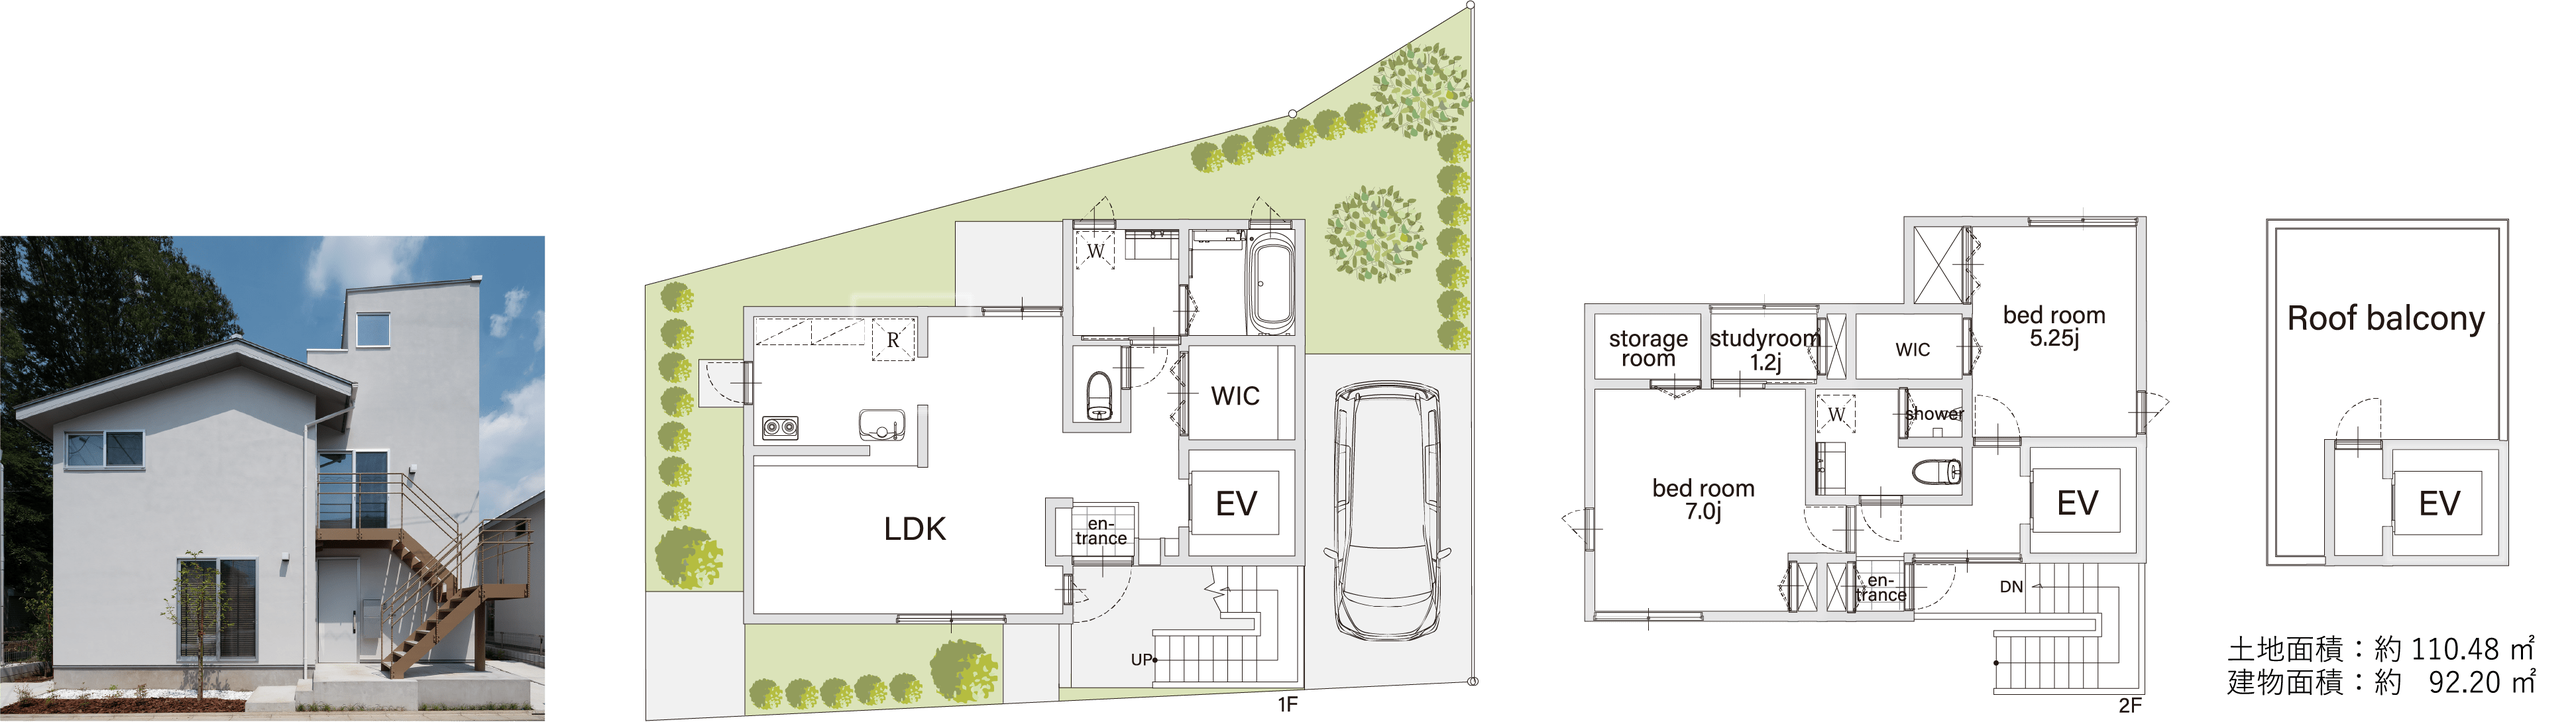
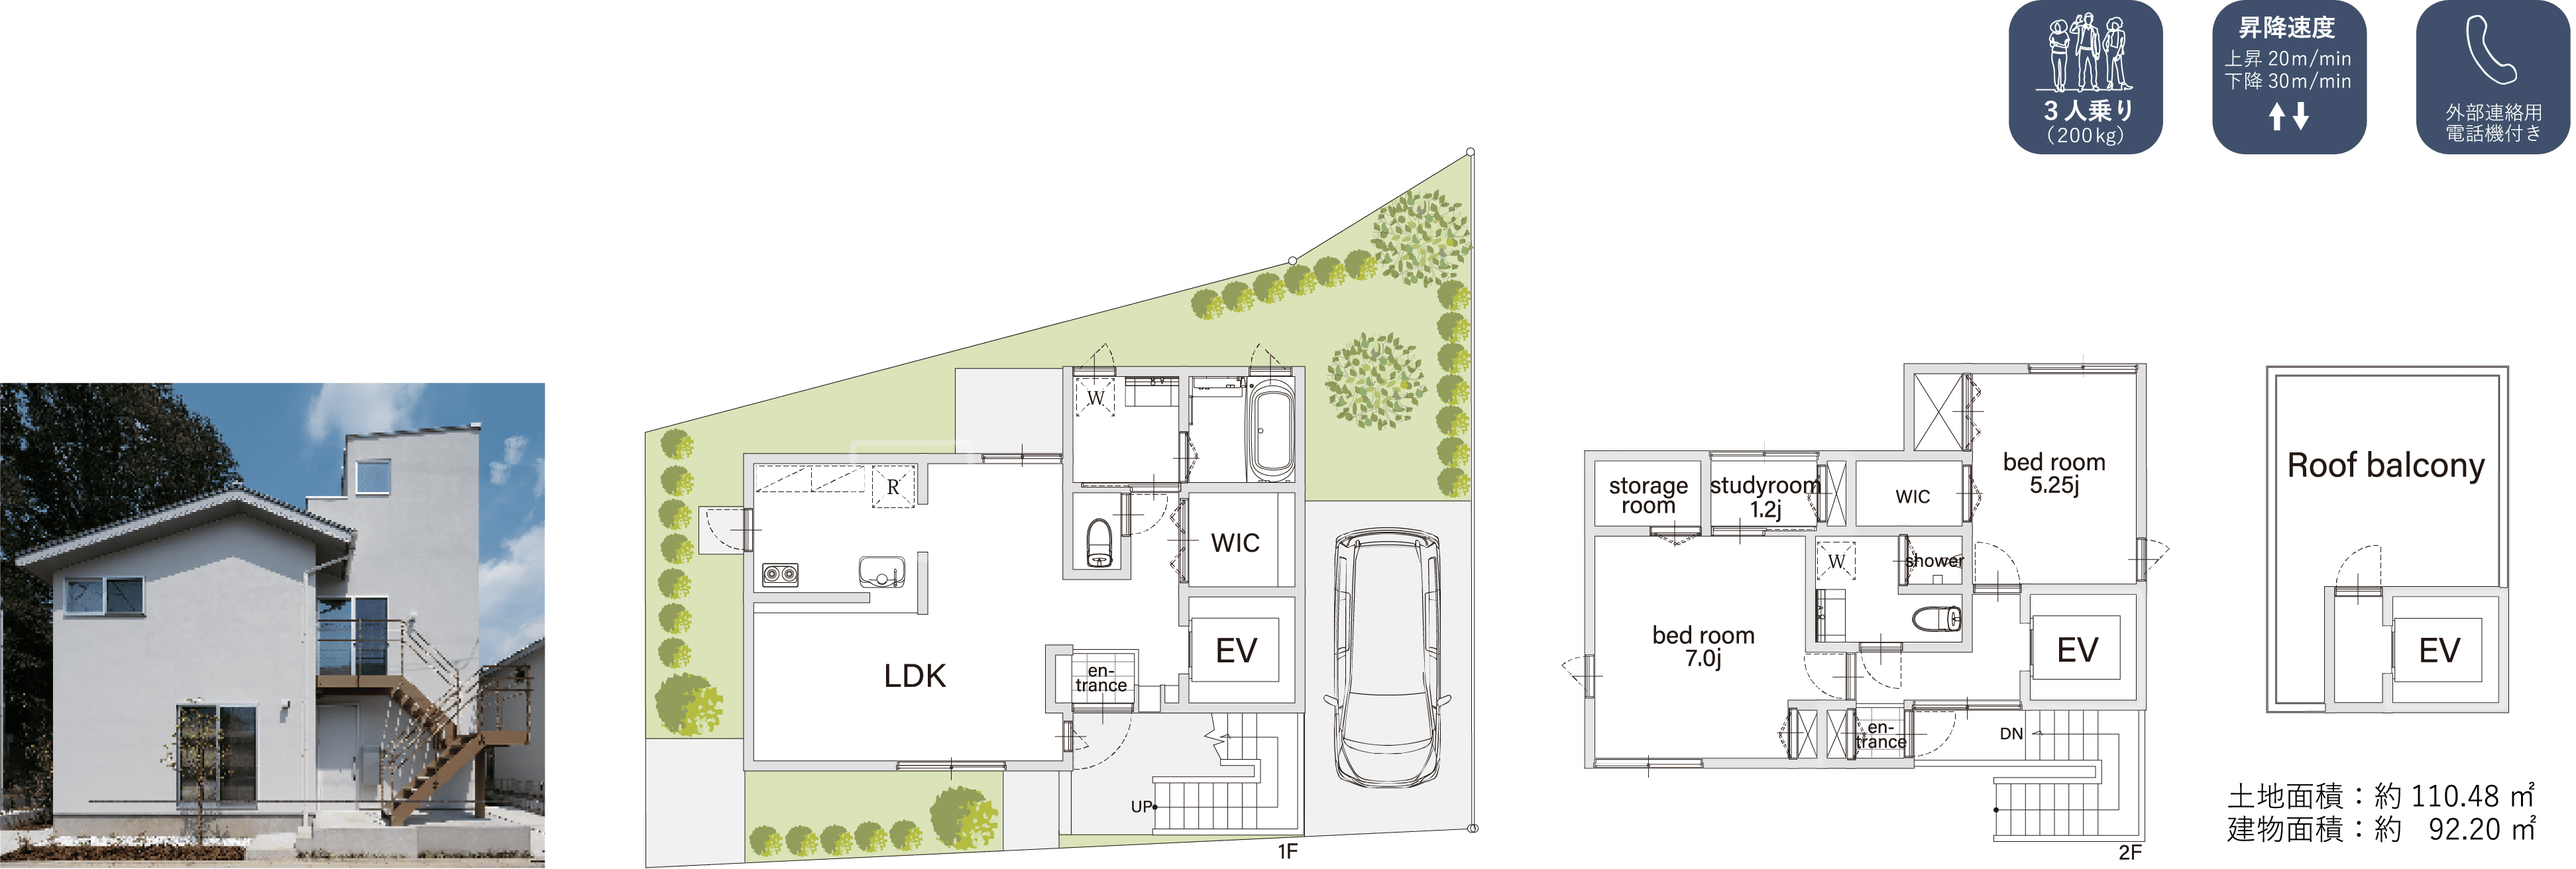
B号棟間取追加

diff --git a/index.html b/index.html
@@ -144,7 +144,7 @@
             <img src="images/SVG/logo_text.svg" alt="Makefull">
         </div>
         <!-- お問い合せ -->
-        <div class="c-contents w1100 w80s mgb10 mgb20s">
+        <div class="c-contents w1100 w80s mgb10 mgb30s">
             <ul class="c-flex -p01">
                 <li class="mgb5s">
                     <a class="c-link -contact" href="">
@@ -209,7 +209,7 @@
         </div>
 
         <!-- プラン -->
-        <div id="content02" class="c-contents w1100 w90s mgb5 mab5s">
+        <div id="content02" class="c-contents w1100 w90s mgb5 mgb20s">
             <ul class="c-flex -reverse -p01">
                 <li class="mgb5s">
                     <div class="c-contents -imgBg">
@@ -238,13 +238,19 @@
                 </li>
             </ul>
         </div>
-        <div class="c-contents imgBg w1100 mgb10 mgb10s">
+        <div class="c-contents -imgBg w1100 mgb10 mgb10s">
             <div class="imgBox">
                 <img class="pc" src="images/bg/madori-b.png" alt="B号棟 間取図">
+                <img class="sp" src="images/bg/madori-b_s.png" alt="B号棟 間取図">
             </div>
-            <div class="c-contentsBox">
-                
-            </div>
+            <p class="c-contentsBox -m-goutou">
+                <img class="spell" src="images/item/b.png" alt="B"><span class="s-M">号棟</span>
+            </p>
+            <p class="c-contentsBox -m-des s-L -s14 -left">
+                ホームエレベーター付きの、<br class="">
+                階層間の遮音性を高めた<br>
+                モダニズム建築が魅力のモデル棟。
+            </p>
         </div>
 
     </main>

diff --git a/css/style.css b/css/style.css
@@ -143,6 +143,11 @@ p.s-L, a.s-L, span.s-L {
     font-size: clamp(10px, 1.8vw, 24px);
   }
 }
+@media (768px >= width) {
+  p.s-L.-s14, a.s-L.-s14, span.s-L.-s14 {
+    font-size: 14px;
+  }
+}
 p.s-LL, a.s-LL, span.s-LL {
   font-size: 18px;
 }
@@ -385,8 +390,20 @@ p.-f-gara, a.-f-gara, span.-f-gara {
   }
 }
 
+@media (768px >= width) {
+  .mgb25s {
+    margin-bottom: 25% !important;
+  }
+}
+
 @media (width >= 768px) {
   .mgb30 {
+    margin-bottom: 30% !important;
+  }
+}
+
+@media (768px >= width) {
+  .mgb30s {
     margin-bottom: 30% !important;
   }
 }
@@ -1278,6 +1295,31 @@ p.-f-gara, a.-f-gara, span.-f-gara {
   width: 25%;
   filter: drop-shadow(2px 2px 2px gray);
 }
+.c-contents.-imgBg .c-contentsBox.-m-goutou {
+  top: 6%;
+  left: 14%;
+  transform: translate(-50%, -50%);
+  width: auto;
+}
+@media (width >= 768px) {
+  .c-contents.-imgBg .c-contentsBox.-m-goutou {
+    top: 1%;
+    left: 3.4%;
+  }
+}
+.c-contents.-imgBg .c-contentsBox.-m-des {
+  top: 16%;
+  left: 50%;
+  transform: translate(-50%, -50%);
+  width: 89%;
+}
+@media (width >= 768px) {
+  .c-contents.-imgBg .c-contentsBox.-m-des {
+    top: 25%;
+    left: 17%;
+    width: auto;
+  }
+}
 @media (width >= 768px) {
   .c-contents.w1100 {
     width: 85%;
@@ -1358,6 +1400,15 @@ p.-f-gara, a.-f-gara, span.-f-gara {
 @media (width >= 768px) {
   .titleArea.-c-In img {
     width: 33%;
+  }
+}
+
+.spell {
+  width: 30%;
+}
+@media (width >= 768px) {
+  .spell {
+    width: 35%;
   }
 }
 

diff --git a/scss/components/_contents.scss b/scss/components/_contents.scss
@@ -105,7 +105,6 @@
 					width: 30%;
 				}
 			}
-
 			&.-f-item{// 表示要素の横幅を設定
 				@include min(768){
 					width: 100% / 5;
@@ -142,13 +141,37 @@
 				transform: translate(-50%, -50%);
 				width: 100%;
 			}
-
 			&.-number{
 				top: 0%;
 				left: 15%;
 				transform: translate(-50%, -50%);
 				width: 25%;
 				filter: drop-shadow(2px 2px 2px gray);
+			}
+
+
+			// 間取り > 号棟
+			&.-m-goutou{
+				top: 6%;
+				left: 14%;
+				transform: translate(-50%, -50%);
+				width: auto;
+				@include min(768){
+					top: 1%;
+					left: 3.4%;
+				}
+			}
+			// 間取り > des
+			&.-m-des{
+				top: 16%;
+				left: 50%;
+				transform: translate(-50%, -50%);
+				width: 89%;
+				@include min(768){
+					top: 25%;
+					left: 17%;
+					width: auto;
+				}
 			}
 		}
 	}
@@ -227,5 +250,12 @@
 					width: 33%;
 				}
 			}
+		}
+	}
+	// スペル
+	.spell{
+		width: 30%;
+		@include min(768){
+			width: 35%;
 		}
 	}

diff --git a/scss/setting/_typography.scss b/scss/setting/_typography.scss
@@ -55,6 +55,11 @@ p,a,span{
             @include min(768){
                 font-size: clamp(10px, 1.8vw, 24px);
             }
+            &.-s14{
+                @include max(768){
+                    font-size: 14px;
+                }
+            }
         }
         &.s-LL{
             font-size: 18px;

diff --git a/scss/setting/_gap.scss b/scss/setting/_gap.scss
@@ -178,8 +178,18 @@
 		margin-bottom: 25% !important;
 	}
 }
+.mgb25s {
+	@include max(768){
+		margin-bottom: 25% !important;
+	}
+}
 .mgb30 {
 	@include min(768){
+		margin-bottom: 30% !important;
+	}
+}
+.mgb30s {
+	@include max(768){
 		margin-bottom: 30% !important;
 	}
 }
